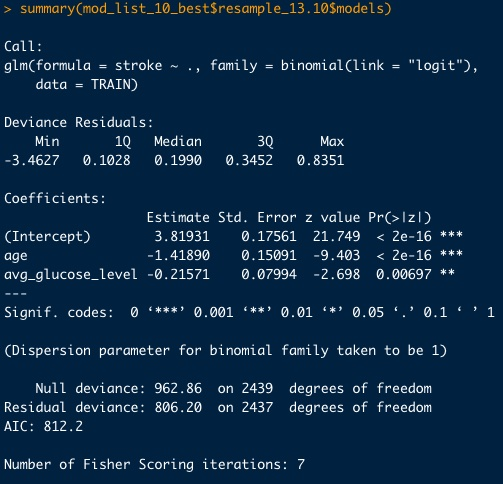
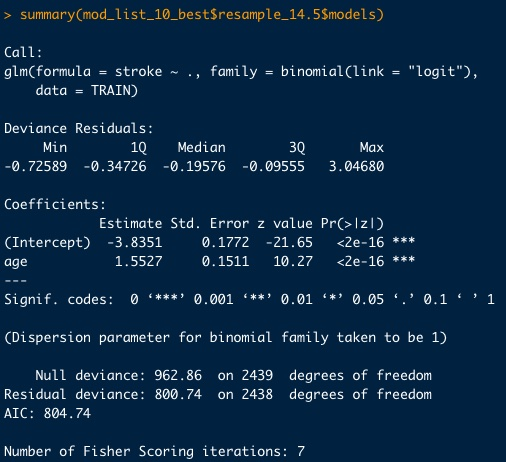
updated readme and logreg model

diff --git a/README.md b/README.md
@@ -124,7 +124,10 @@ Next, we considered the number of variables retained for each of the winning mod
 
 ![important vars](/figures/log_reg_impvars.svg)
 
-The above plot indicates that the model with the highest AUC (0.872) was resample_13.10 with included the variables age and avg_glucose_level. The model  is as follows:
+The above plot indicates that the model with the highest AUC (0.872) was resample_14.5 which retained only the predictor age. The F1 score was identical between this model and the model with the next highest AUC, so resample_14.5 was chosen as the best model. The model  is as follows:
 
 ![winning model](/figures/winning_model.jpg)
 
+If we exponentiate the age coefficient (exp(1.5527) = 4.724208), while considering our preprocessing step (base 10 log transformation of variable age), we can interpret the model to indicate that the odds ratio of having a stroke associated with a 10-fold increase in age is 4.72. In other words, with every 10-fold increase in age the odds of having a stroke are 4.72 times higher.
+
+We considered multiple methods for handling the effect of the unbalanced target variable bias on model predictions, including dimensional reduction (PCA) and updating predictions with a calculated prior probability (see [logistic_regression.R(scripts/logistic_regression.R)])
